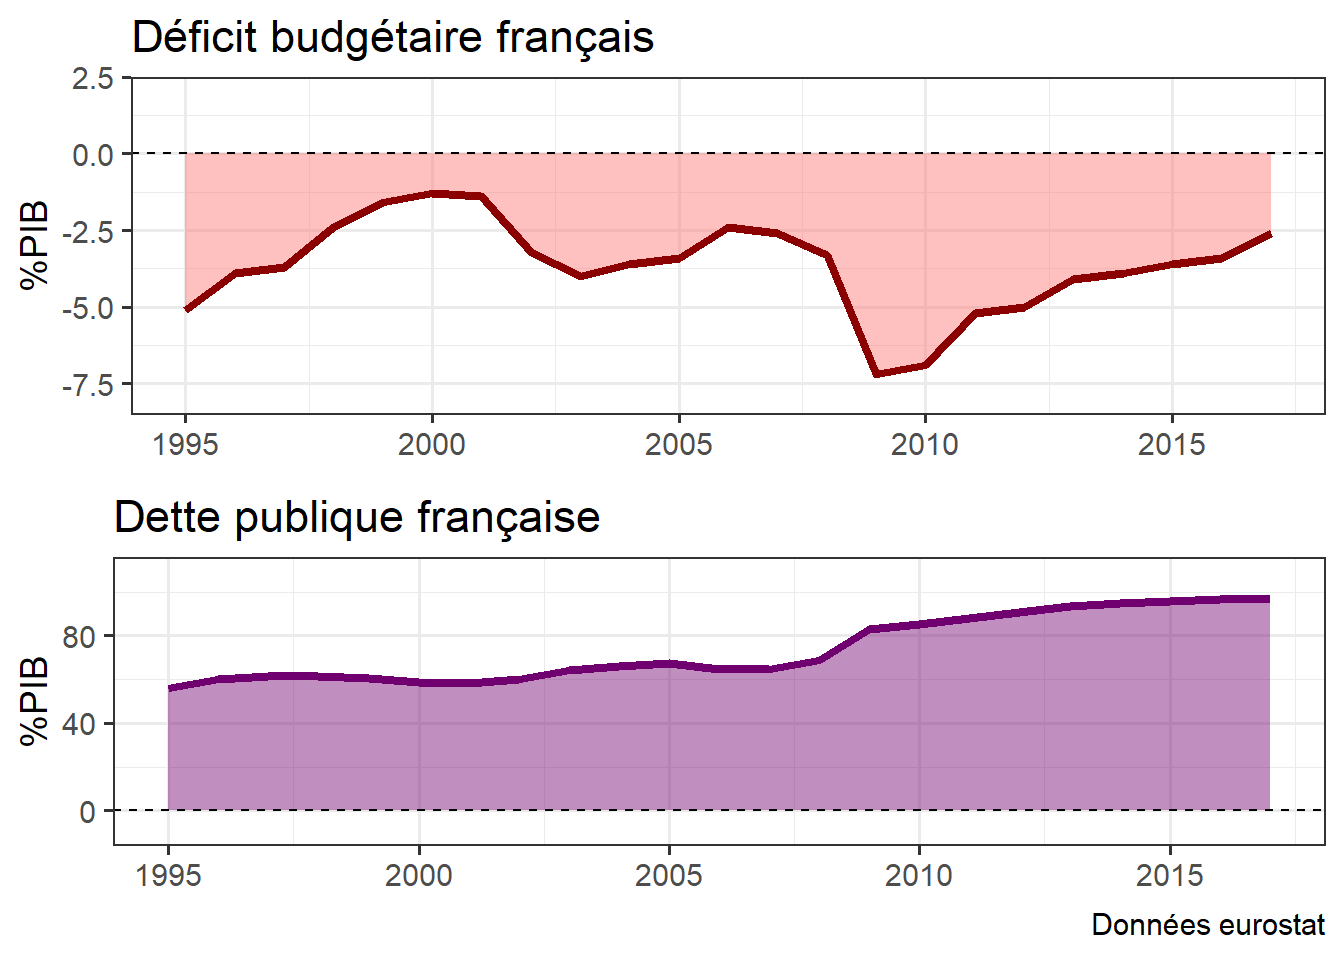
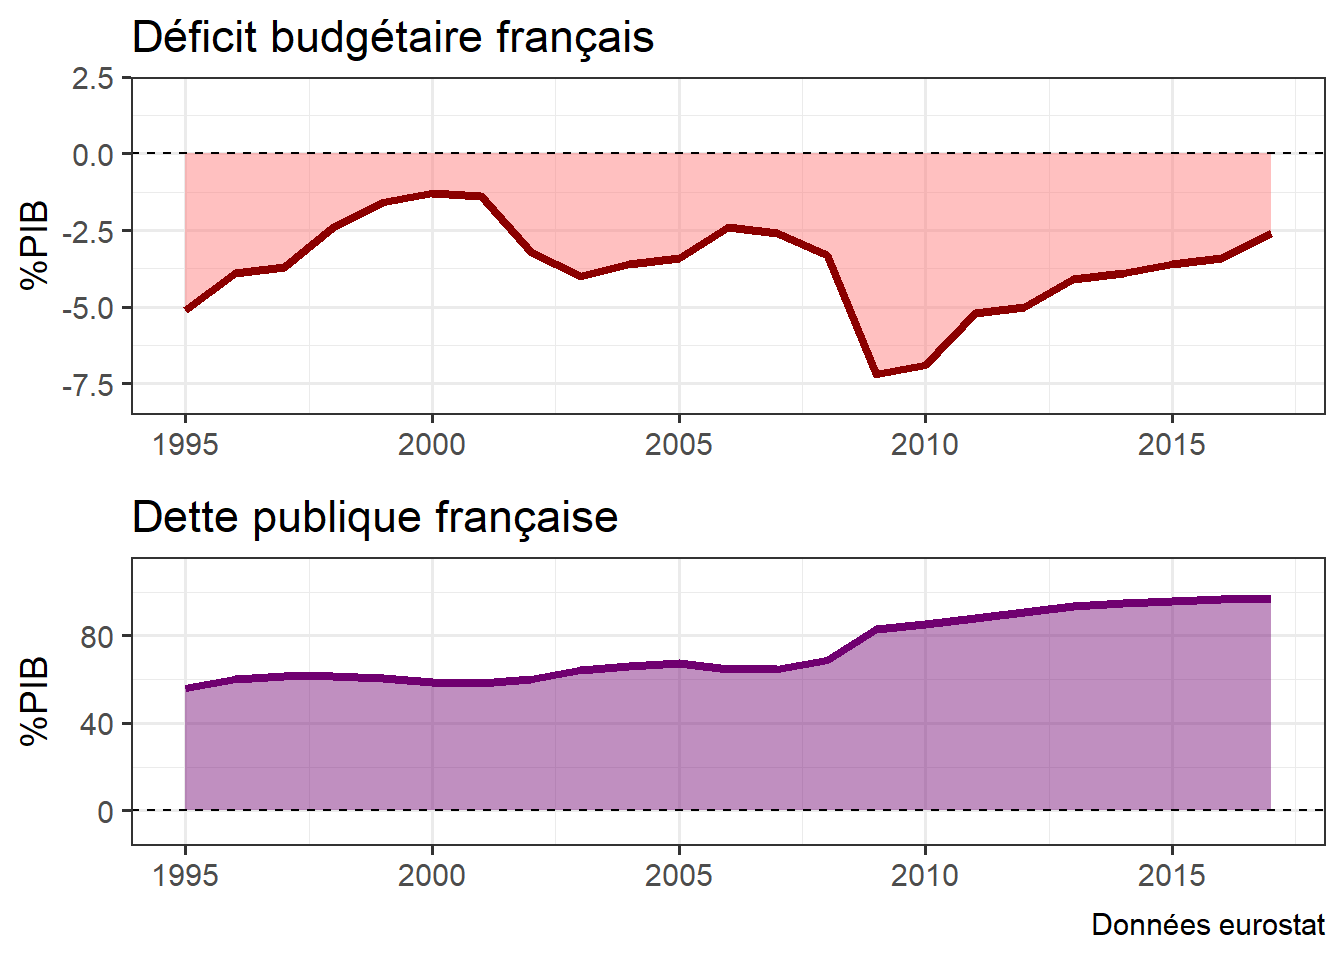
better ?
still no toc, though...

diff --git a/content/billet/2018-08-25-l-approche-comptable.html b/content/billet/2018-08-25-l-approche-comptable.html
@@ -10,17 +10,14 @@ tags:
   - MMT
   - Eurostat
   - FRED
-header:
-  caption: ''
-  image: ''
 type: "post"
 mathjax: true  
 ---
 
 
 
-<div id="la-dette-la-dette-la-dette" class="section level3">
-<h3>La dette ! La dette ! La dette !</h3>
+<div id="la-dette-la-dette-la-dette" class="section level1">
+<h1>La dette ! La dette ! La dette !</h1>
 <p>Le secteur publique Français est en déficit budgétaire depuis au moins les années 1980. Chaque année, l’état doit donc s’endéter, de plus en plus, pour faire face à ses dépenses. Conséquence direct : la dette publique explose.</p>
 <p><img src="/billet/2018-08-25-l-approche-comptable_files/figure-html/deficitanddebt-1.png" width="672" /></p>
 <pre class="r"><code>library(tidyverse)
@@ -56,7 +53,7 @@ pldebt &lt;- ggplot(frdebt, aes(x = time, y = values)) +
     coord_cartesian(ylim = c(-10, 110)) +
     theme_bw(base_size = 14)
 
-cowplot::plot_grid(pldeficit, pldebt, ncol = 1)</code></pre>
+cowplot::plot_grid(pldeficit, pldebt, ncol = 1, align = &quot;v&quot;)</code></pre>
 <p>Il semble donc urgent de réduire les dépenses de l’état, augemnter ses recettes, afin commencer à rembourser une dette que nous ne voulons pas laisser cette dette à nos petits enfants. Sinon, <em>la dette se vengera</em> !</p>
 <blockquote class="twitter-tweet" data-lang="fr">
 <p lang="fr" dir="ltr">
@@ -66,18 +63,18 @@ cowplot::plot_grid(pldeficit, pldebt, ncol = 1)</code></pre>
 </blockquote>
 <script async src="https://platform.twitter.com/widgets.js" charset="utf-8"></script>
 </div>
-<div id="hypocrites" class="section level3">
-<h3>Hypocrites</h3>
+<div id="hypocrites" class="section level1">
+<h1>Hypocrites</h1>
 <p>Il est assez facile de dénoncer l’hypocrisie de tels propos. Les personnes scandalisées par des niveaux de déficits publiques excessifs “hypothétiquant l’avenir de leurs enfants” sont souvent beaucoup moins angoissées en ce qui concerne le réchaufement climatique, danger pourtant plus concret et menaçant. Curieusement aussi, ces même personnes ne se scandalisent pas pareil lorsqu’il s’agit de suprimer l’impôt sur la fortune ou de réduire la fiscalité du travail que lorsqu’il s’agit de combler le déficit de la sécu ou des caisses de retraites.</p>
 <p>Malgrés ces hypocrisies, ce discours de réduction des déficits garde un pouvoir de persuation : il semble rationelle, de bon sens. S’assurer, au long terme, de gagner suffisament d’argent pour pouvoir couvrir ses dépenses, n’est-ce pas là un principe de bonne gestion, après tout ?</p>
 </div>
-<div id="theorie-monetaire-moderne" class="section level3">
-<h3>Théorie monétaire moderne</h3>
+<div id="theorie-monetaire-moderne" class="section level1">
+<h1>Théorie monétaire moderne</h1>
 <p>La théorie monétaire moderne (Modern Monetary Theory, MMT en anglais, parfois aussi appelée neochartalisme) constitut un cadre théorique puissant et cohérant dénonçant l’inepsie de tels raisonements alarmistes et fétichistes sur les niveaux de dettes publiques. Elle explicite le fait que le gouvernement, en tant qu’autorité ultime garantissant le sytéme monétaire de son pays, n’est pas soumis aux même contraintes financières qu’un ménage ou qu’une entreprise.</p>
 <p>Il s’agit d’un théorie au sens scientifique, un cadre de pensée expliquant le réel, et non pas d’une “théorie” au sens policier, une simple hypothèse de travail. Contrairement à d’autres théories scientifiques, tels que la théorie quantique en physique ou la théorie neo-darwiniene de l’évolultion en biologie, la théorie monétaire moderne reste marginale dans son domaine. Elle n’en reste pas moins rigoureuse, appuyée par un large corpus académique produit par des universitaires reconnus, tels que Randal Wray, Bill Mitchel ou Stephanie Kelton. Un deuxiéme congrés international de la théorie monétaire moderne est organisé à l’automne. Un text-book est disponible, et il sera bientôt complété.</p>
 </div>
-<div id="balances-sectorielles" class="section level3">
-<h3>Balances sectorielles</h3>
+<div id="balances-sectorielles" class="section level1">
+<h1>Balances sectorielles</h1>
 <p>Ce premier billet, introductif, et donc incomplet et simplificateur, vous propose d’établir une compatibilité nationale pour en déduire une vérité toute bête : l’argent dépensé par le gouvernement, mais non récupéré via les taxes est impôts, cet argent constituant précisément le déficit publiqe, où finit-il ?</p>
 <p>Prenons l’exemple d’un pays seul utilisateur de sa monnaie, pour commencer en douceur, tels que, par exemple, la Pologne. La monnaie polonaise, le Zloty, est soit dans le secteur privé domestique (particuliers), soit dans le secteur publique (l’état polonais), soit à l’étranger. Les entreprises étant possédés pour partie par les polonnais, pour partie par l’état polonnais, pour partie par des particuliers ou gouvernements étrangers, leurs avoir monétaires sont donc répartie dans les trois catégories définies précédements.</p>
 <p>Ainsi :</p>
@@ -86,8 +83,8 @@ cowplot::plot_grid(pldeficit, pldebt, ncol = 1)</code></pre>
 <p><span class="math display">\[ \Delta secteur\ publique + \Delta secteur\ privé + \Delta secteur\ étranger = \Delta masse\ monétaire\ totale \]</span></p>
 <p>En partant du principe que l’argent <em>ne sort pas de nul part</em> (nous y reviendrons) : <span class="math display">\[ \Delta secteur\ publique + \Delta secteur\ privé + \Delta secteur\ étranger = 0\]</span></p>
 </div>
-<div id="exemples" class="section level3">
-<h3>Exemples</h3>
+<div id="exemples" class="section level1">
+<h1>Exemples</h1>
 <p>Il s’agit là d’une vérité comptable, vérifiable et vérifié. Par exemple, en ce qui concerne les Etats-Unis d’Amériques (d’après des données de la <em>FRED</em> de <a href="https://fred.stlouisfed.org/graph/?graph_id=480953">Saint-Louis</a>)</p>
 <p><img src="/billet/2018-08-25-l-approche-comptable_files/figure-html/sectorialusa-1.png" width="672" /></p>
 <pre class="r"><code># csv downloaded from https://fred.stlouisfed.org/graph/?graph_id=480953
@@ -107,8 +104,8 @@ ggplot(sector_usa, aes(x = date, y = pctPIB, fill = sector)) + # ploting
 </div>
 <p>(Avec: <em>public</em> = secteur publique, <em>households</em> + <em>Corporate</em> = secteur privé, <em>rest of world</em> = secteur étranger, <em>discrepency</em> = anomalies résiduelles liés aux érreures d’éstimations.)</p>
 </div>
-<div id="conclusion" class="section level3">
-<h3>Conclusion</h3>
+<div id="conclusion" class="section level1">
+<h1>Conclusion</h1>
 <p>La conséquence directe de cette vérité comptable, c’est que pour qu’un des secteurs puisse être positif, il en faudra nécéssairement un qui soit négatif.</p>
 <p>Le secteur privé a souvent le désir d’accroître sa richesse au court du temps : pour que les ménages et entreprises soient satisfaits, ils souhaitent finir l’année un peu plus riche qu’ils ne l’ont commencé.</p>
 <p>Le cas du secteur étranger est un peu particulier. Il est généralement souhaitable qu’il soit équilibré, donc proche de 0 à terme (nous aurrons l’occasion de revenir dessus, notament dans le cas de l’Allemagne). Un des arguments à cela est qu’il ne peut, dans le monde, n’y avoir uniquement des pays exportateurs net, il en faudra a minima un qui soit importateur net !</p>
